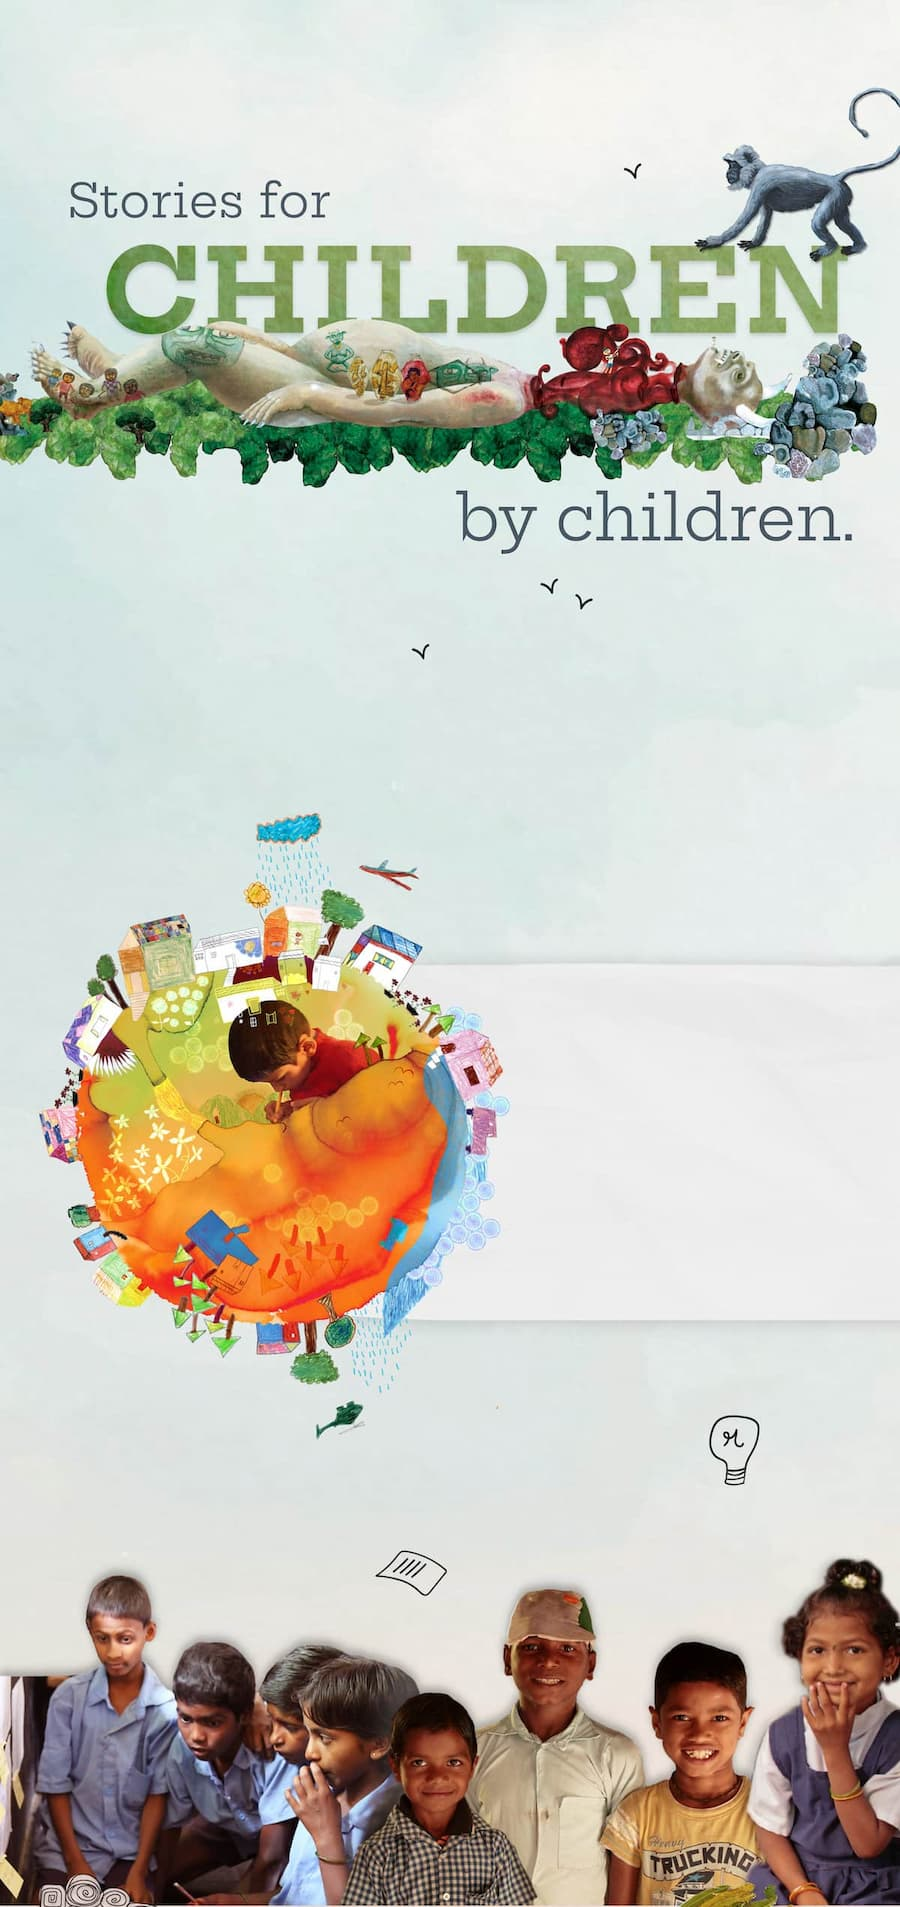
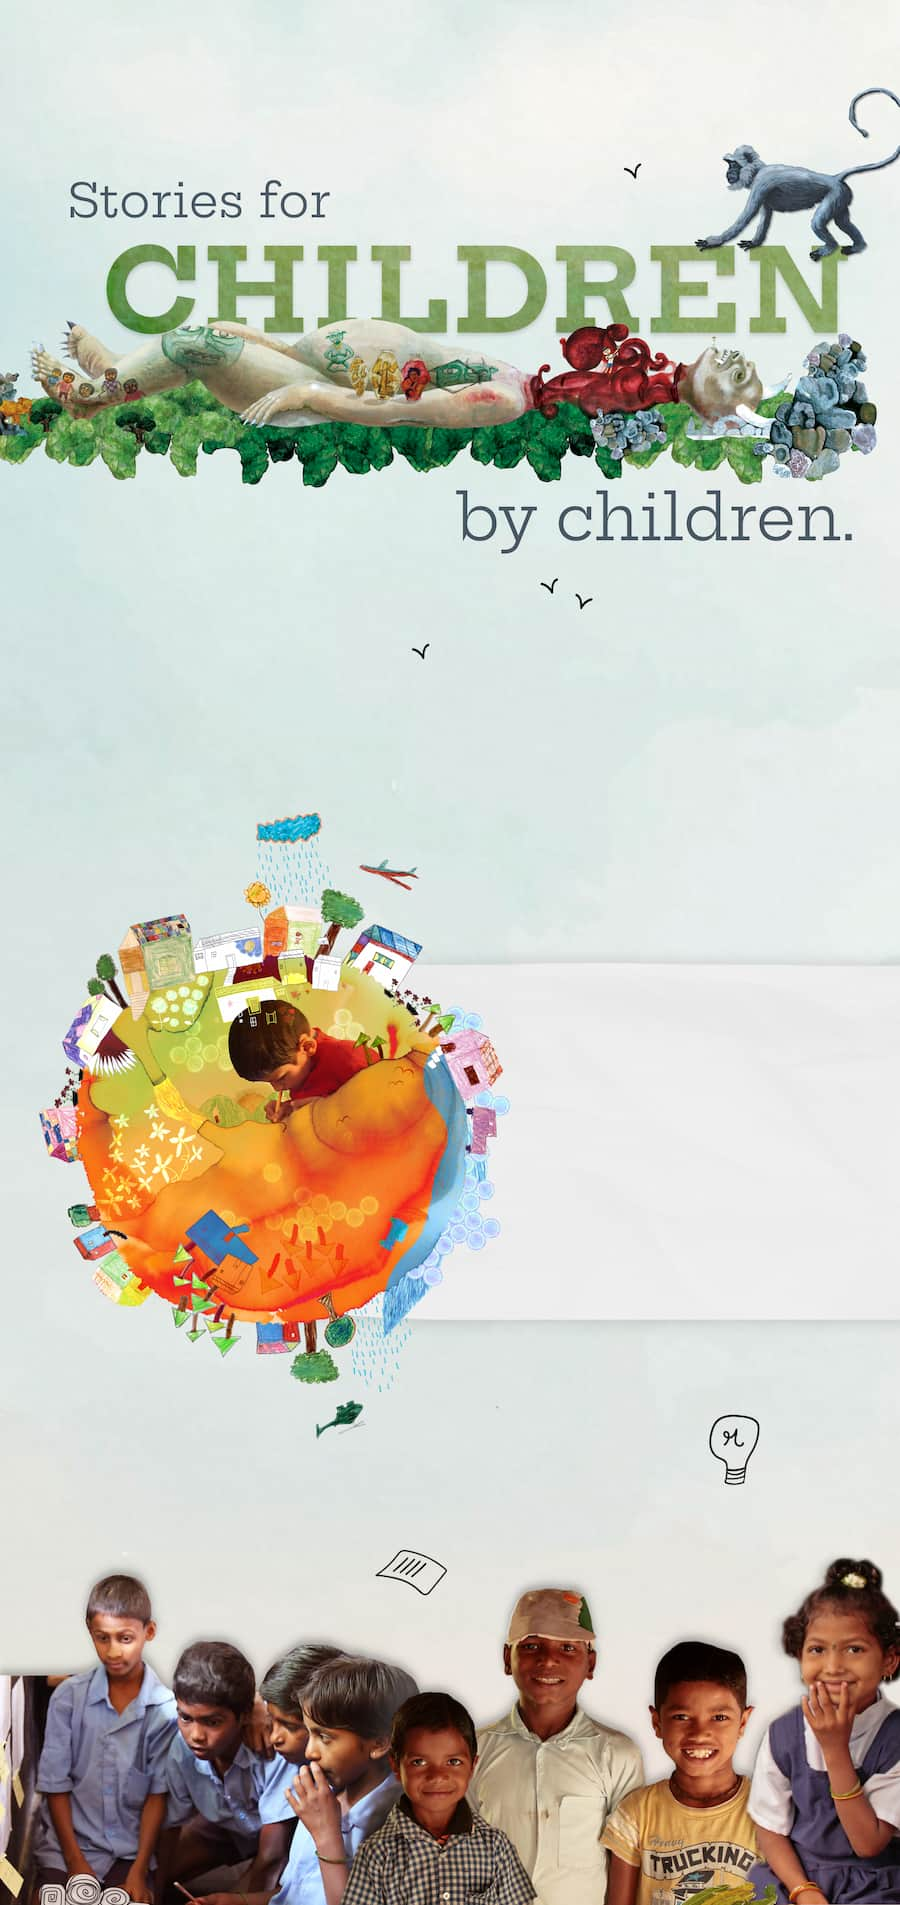
Changes made to accomodate alka's intro video: The bottom section increased in size, so positioning of the text below the fold had to be corrected. Also, all the bg-* images were re-processed into jpeg/webp and resized for 1200/900 widths. 	modified:   assets/css/base.css 	modified:   assets/css/ind

diff --git a/index.html b/index.html
@@ -32,7 +32,6 @@
           if (!resolved && (!this.readyState || this.readyState == 'complete')) {
             resolved = true;
             resolve();
-            //console.log("loaded :", src);
           }
         };
         scr.src = src;
@@ -62,7 +61,13 @@
             const jel = $(el);
             jel.attr("href", jel.attr("data-href"));
           });
+          $(".play-2").each((i, el) => {
+            const jel = $(el);
+            jel.attr("href", jel.attr("data-href"));
+          });
+
           $(".play-1").yu2fvl({ minPaddingX: 100, minPaddingY: 100, closeText: "&times;" });
+          $(".play-2").yu2fvl({ minPaddingX: 100, minPaddingY: 100, closeText: "&times;" });
 
           $(".text-center").each(function (i, tw) {
             tw.addEventListener("scroll", addMoreIndicatorIfOverflow, { passive: true });
@@ -127,14 +132,14 @@
     </div>
   </div>
   <div id="bottom-section" class="section">
-    <picture onload="console.log('picture loaded');">
+    <picture>
       <source class="bg-img" media="(max-width: 900px)" width="900" height="1996" srcset="assets/img/bg-900-2.webp" type="image/webp">
       <source class="bg-img" media="(max-width: 900px)" width="900" height="1996" srcset="assets/img/bg-900-2.jpg" type="image/jpeg">
       <source class="bg-img" srcset="assets/img/bg-1200-2.webp" width="1200" height="2661" type="image/webp">
       <img class="bg-img" onload="loadLazy()" src="./assets/img/bg-1200-2.jpg" width="1200" height="2661"/>
     </picture>
-    <div id="books-text-wrapper" class="text-wrapper">
-      <div class=text-center>
+    <div id="books-text-wrapper" class="text-wrapper" >
+      <div class=text-center style="align-items:start">
         <div>
           <h2 id="our-books">Our Books</h2>
           <div class="body-text">
@@ -148,8 +153,8 @@
         </div>
       </div>
     </div>
-    <div id="book-sample" class="text-wrapper" onclick="openBook('CleverKalyani', true);"> <p style="text-align:end">Please click here for a sample
-      audiobook.</p>
+    <div id="book-sample" class="text-wrapper" onclick="openBook('CleverKalyani', true)"> 
+      <p>Please click here for a sample audiobook.</p>
     </div>
 
     <div id="book-open"></div> <!-- div for modal -->
@@ -166,7 +171,7 @@
       </div>
     </div>
 
-    <p><a class="play-1 open-video" href="#" data-href="https://www.youtube.com/embed/GJSGdhXDzOQ"></a></p>
+    <p><a class="play-1 open-anim-video" href="#" data-href="https://www.youtube.com/embed/GJSGdhXDzOQ"></a></p>
 
     <div id="apps-text-wrapper" class="text-wrapper">
       <div class="text-center">
@@ -187,19 +192,22 @@
         </div>
       </div>
     </div>
-    <div id="footer">
-      <div id="logotext"> <img src="assets/img/ftr-logo.png"> </div>
-      <div id="social">
-        <a href="mailto:contactletsfoundation@gmail.com?body=Please%20tell%20us%20about%20yourself%20and%20share%20your%20thoughts.">
-          <span class="fa icon-mail"></span>
-        </a>
-        <a href="#"> <span class="fa icon-facebook"></span></a>
-        <a href="#"> <span class="fa icon-instagram"></span></a>
-        <a href="#"> <span class="fa icon-linkedin"></span></a>
-      </div>
+    <div id="intro-video" class="play-2" data-href="https://www.youtube.com/embed/drc0QWWHPXQ">
+      <div style="align-items:flex-end"> A short introduction by Prof. Alka Hingorani. </div>
     </div>
-    <div style="height: 1rem; background-color: grey; width: 100%;"/>
   </div>
+  <div id="footer">
+    <div id="logotext"> <img src="assets/img/ftr-logo.png"> </div>
+    <div id="social">
+      <a href="mailto:contactletsfoundation@gmail.com?body=Please%20tell%20us%20about%20yourself%20and%20share%20your%20thoughts.">
+        <span class="fa icon-mail"></span>
+      </a>
+      <a href="#"> <span class="fa icon-facebook"></span></a>
+      <a href="#"> <span class="fa icon-instagram"></span></a>
+      <a href="#"> <span class="fa icon-linkedin"></span></a>
+    </div>
+  </div>
+  <div style="height: 1rem; background-color: grey; width: 100%;"/>
 </body>
 
 </html>

diff --git a/assets/css/index.css b/assets/css/index.css
@@ -96,17 +96,21 @@ h2 {
 }
 
 #book-sample {
-  top: 9%;
+  display: flex;
+  flex-direction: column;
+  top: 9.4%;
   left: 58%;
   font-size: 0.8rem;
-  width: 43%;
-  padding-top: 39%;
+  width: 42%;
+  height: 17.5%;
   cursor: pointer;
+  align-items: flex-end;
+  justify-content: flex-end;
 }
 
 #book-sample:hover p {
   transition: all 0.5s;
-  font-size: 1.1rem;
+  font-size: 1rem;
   font-weight: bold;
   /* background-color: yellow; */
 }
@@ -116,10 +120,10 @@ h2 {
   height: 11%;
   color: rgb(56, 63, 57);
   left: 40%;
-  top: 28%;
+  top: 27%;
 }
 
-.open-video {
+.open-anim-video {
 	height:300px;
 	width:300px;
   position: absolute;
@@ -136,7 +140,7 @@ h2 {
   height: 7%;
   color: rgb(56, 63, 57);
   left: 52%;
-  top: 54%;
+  top: 55%;
 }
 
 #other-sub-text-wrapper {
@@ -144,7 +148,7 @@ h2 {
   height: 4%;
   color: rgb(56, 63, 57);
   left: 40%;
-  top: 61.5%;
+  top: 64%;
 }
 
 .bg-img {
@@ -153,8 +157,23 @@ h2 {
   height: auto;
 }
 
+#intro-video {
+  /* background: red; */
+  display: flex;
+  flex-direction: column;
+  position: absolute;
+  top: 86%;
+  left: 47%;
+  font-size: 0.8rem;
+  width: 43%;
+  height: 11.25%;
+  cursor: pointer;
+  z-index: 3;
+  justify-content: flex-end;
+  align-items: flex-end;
+  cursor: pointer;
+}
 
-
-.more-text-indicator {
+s.more-text-indicator {
   box-shadow: 0 -1em 1em -1em rgb(90, 90, 52) inset;
 }

diff --git a/assets/css/base.css b/assets/css/base.css
@@ -106,8 +106,8 @@ body {
   width: 100vw;
   margin-left: auto;
   margin-right: auto;
-  padding-left: 5px;
-  padding-right: 5px;
+  /* padding-left: 5px;
+  padding-right: 5px; */
   text-align: center;
   position: relative;
 }
